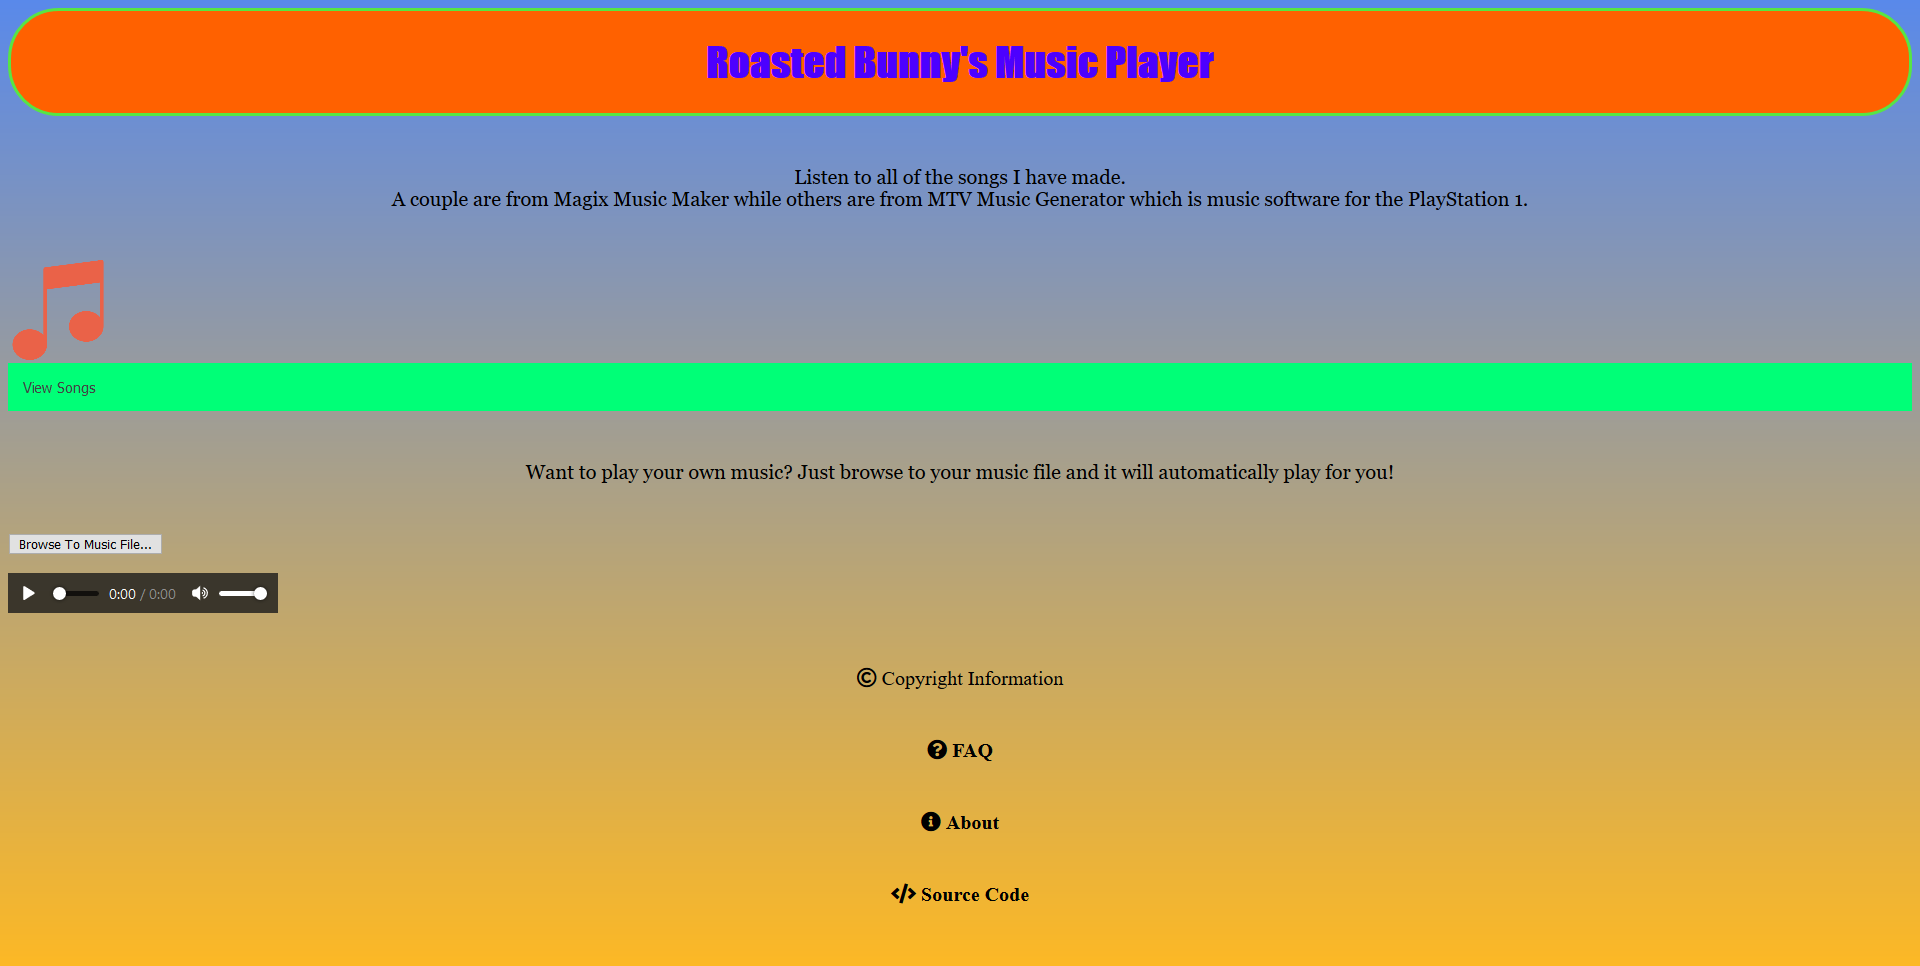
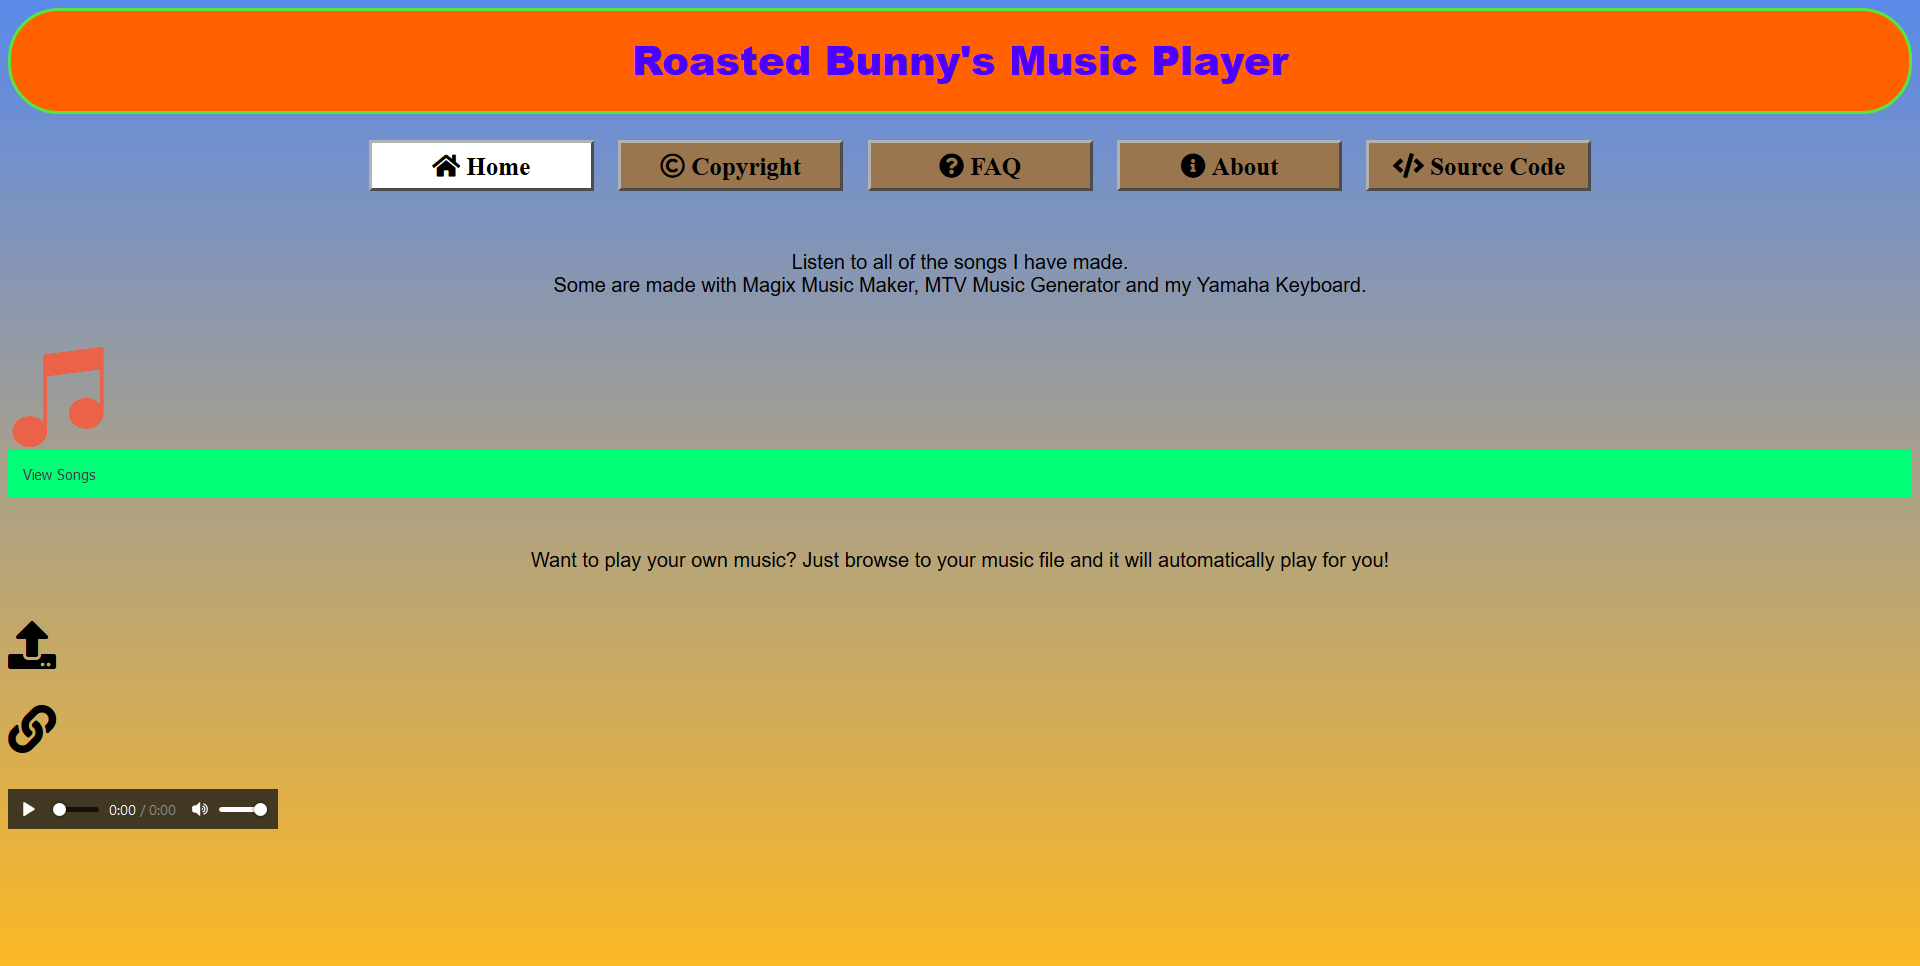
Added new fonts

diff --git a/style.css b/style.css
@@ -1,11 +1,15 @@
 .Music-Player {
-  border: solid;
   border-radius: 50px;
   border-color: #57e544;
+  border-style: dashed;
+  width: 1000px;
+  position: relative;
+  left: 400px;
   background-color: #ff6100;
   color: #4c00ff;
   text-align: center;
   font-size: 20px;
+  font-family: 'Kalam', cursive;
 }
 
 p {
@@ -51,7 +55,7 @@ h1 {
 }
 
 html {
-  font-family: 'Merriweather Sans', sans-serif;
+  font-family: 'Literata', serif;
   background: linear-gradient(to bottom, #5989ea, #fcb825);
   background-repeat: no-repeat;
   background-size: cover;

diff --git a/index.html b/index.html
@@ -2,6 +2,7 @@
 <html lang="en" dir="ltr">
 
 <head>
+	<link href="https://fonts.googleapis.com/css?family=Kalam|Literata&display=swap" rel="stylesheet">
 	<link rel="preload" href="./style.css" as="style">
 	<link href="/Fontawesome/css/all.css" rel="stylesheet">
 	<meta property="og:image" content="screenshot-musicplayer.roastedbunny.co.uk-2019.04.29-19-32-31.png">

diff --git a/about.html b/about.html
@@ -2,6 +2,7 @@
 <html>
 
 <head>
+	<link href="https://fonts.googleapis.com/css?family=Kalam|Literata&display=swap" rel="stylesheet"> 
 	<link href="/Fontawesome/css/all.css" rel="stylesheet">
 	<meta charset="utf-8">
 	<meta name="viewport" content="width=device-width, initial-scale=1.0">

diff --git a/copyright.html b/copyright.html
@@ -2,6 +2,7 @@
 <html>
 
 <head>
+	<link href="https://fonts.googleapis.com/css?family=Kalam|Literata&display=swap" rel="stylesheet"> 
 	<link href="/Fontawesome/css/all.css" rel="stylesheet">
 	<meta charset="utf-8">
 	<meta name="viewport" content="width=device-width, initial-scale=1.0">

diff --git a/faq.html b/faq.html
@@ -2,6 +2,7 @@
 <html>
 
 <head>
+	<link href="https://fonts.googleapis.com/css?family=Kalam|Literata&display=swap" rel="stylesheet"> 
 	<link href="/Fontawesome/css/all.css" rel="stylesheet">
 	<meta charset="utf-8">
 	<meta name="viewport" content="width=device-width, initial-scale=1.0">

diff --git a/404.html b/404.html
@@ -2,6 +2,7 @@
 <html>
 
 <head>
+	<link href="https://fonts.googleapis.com/css?family=Kalam|Literata&display=swap" rel="stylesheet">
 	<link href="/Fontawesome/css/all.css" rel="stylesheet">
 	<meta charset="utf-8">
 	<meta name="viewport" content="width=device-width, initial-scale=1.0">
